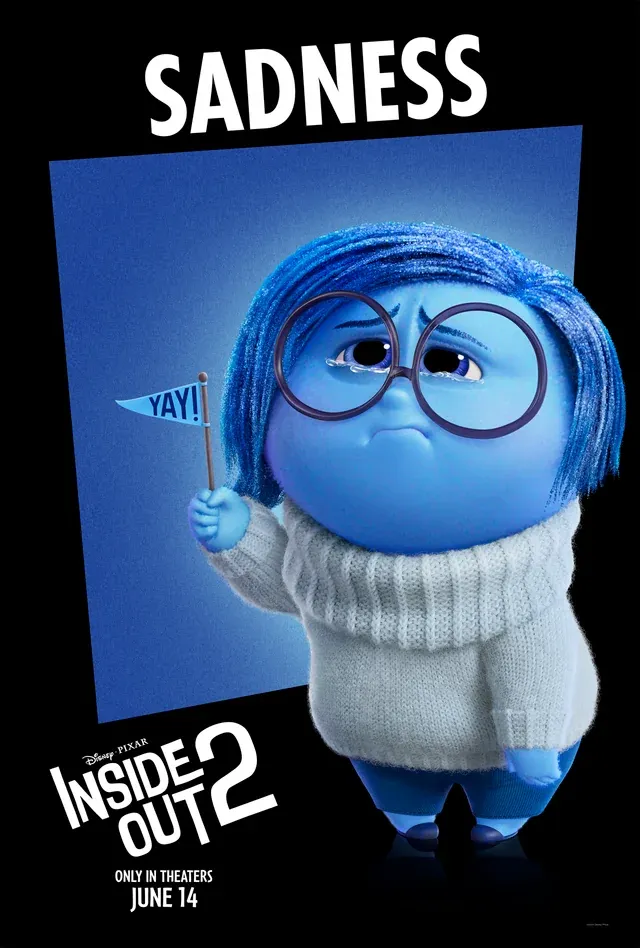
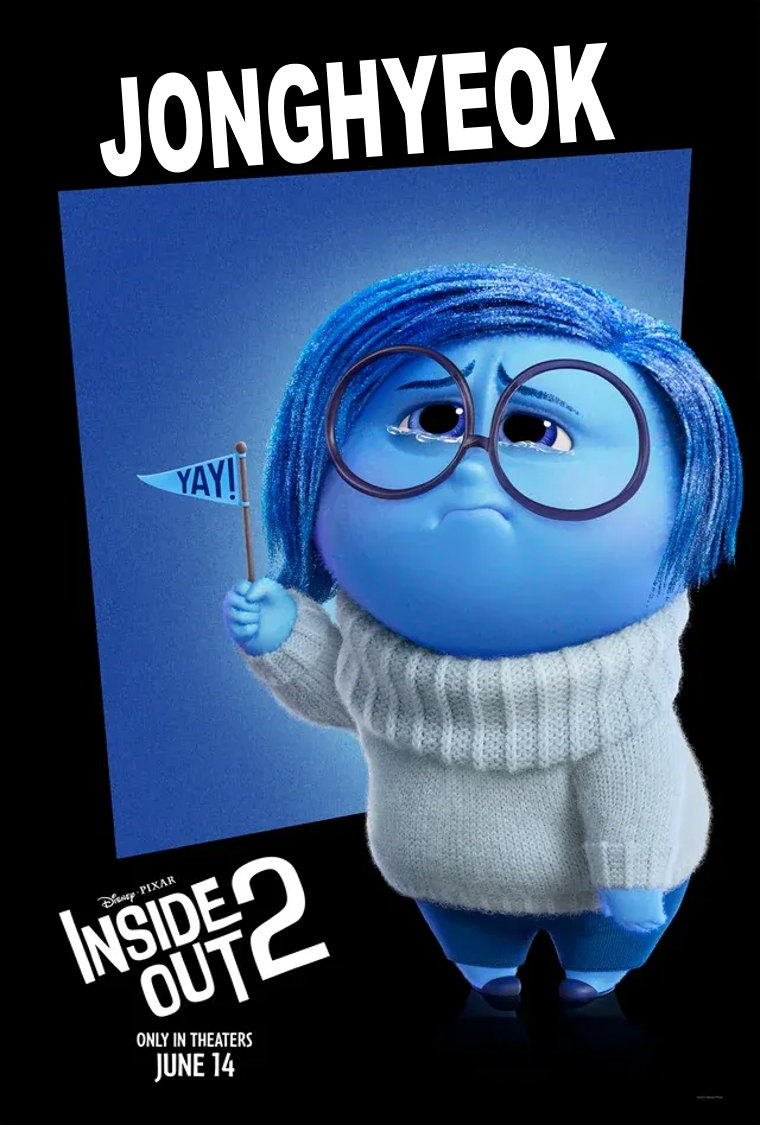
메인페이지 조 이름,소개 / 팀목표/ 약속 추가, 종혁 개인페이지 내용 추가

Changed region(s): [[0.125, 0.0306, 0.8125, 0.153], [0.0938, 0.7648, 0.3125, 0.8871], [0.1875, 0.9177, 0.3438, 0.9483]]

diff --git a/main/index.html b/main/index.html
@@ -71,14 +71,17 @@
 
       /* 팀원 카드 */
       .mycards {
-        margin: 40px auto 20px auto;
-        width: 2400px;
+        margin: 40px auto 40px auto;
+        /* width: 2400px; */
+        width: 2000px;
         height: 500px;
       }
 
       .mycards img {
-        width: 440px;
-        height: 440px;
+        /* width: 440px;
+        height: 440px; */
+        width: 360px;
+        height: 360px;
         object-fit: fill;
       }
 
@@ -116,20 +119,31 @@
     <div class="project">
       <!-- 프로젝트 명, 프로젝트 소개 -->
       <div class="project_1">
-        <h4>조 이름</h4>
-        <h5>조 소개</h5>
+        <h4>파이브아이즈</h4>
+        <h5>내향성 5명이 모여 함께 코딩과 협업을 배워나가는 팀입니다!</h5>
       </div>
 
       <!-- 팀 목표 -->
       <div class="project_2">
         <h4>팀 목표</h4>
-        <h5>우리 팀만의 특징과 추구하는 궁극적인 목표</h5>
+        <h5>저희 포아이즈팀은 개인의 성장과 팀의 성장을 동시에 추구합니다!!</h5>
+        <h5>
+          긍정적인 언어와 태도로 함께 지속적으로 학습하고 개선하며, 새로운
+          지식을 팀 프로젝트에 적용합니다.
+        </h5>
+        <h5>
+          이를 통해 팀 전체의 역량을 향상시키고 더 나은 결과물을 만들기위해
+          노력하여 개인과 팀이 함께 성공할 수 있는 목표를 가집니다.
+        </h5>
       </div>
 
       <!-- 팀 약속 및 규칙 -->
       <div class="project_3">
-        <h4>팀 약속</h4>
-        <h5>우리 팀만의 약속과 규칙</h5>
+        <h4>팀 약속 & 규칙</h4>
+        <h5>자주 소통하고 적극적으로 의견을 냅니다</h5>
+        <h5>팀원 각자의 장점을 파악하고 적극적으로 도움을 요청합니다</h5>
+        <h5>어려운 문제는 다같이 의견을 나누어 가며 해결합니다</h5>
+        <h5>서로에게 동기부여가 될 수 있도록 긍정적인 언어를 사용합니다</h5>
       </div>
     </div>
 
@@ -143,7 +157,7 @@
         <div class="col">
           <a href="./gipyueng.html">
             <div class="card h-100">
-              <img src="../imgs/anger.png" class="card-img-top" alt="..." />
+              <img src="../imgs/joy.png" class="card-img-top" alt="..." />
               <div class="card-body">
                 <h5 class="card-title">
                   <span style="color: #af2610; font-weight: 700">I</span>NFP
@@ -157,7 +171,7 @@
         <div class="col">
           <a href="./bom.html">
             <div class="card h-100">
-              <img src="../imgs/boaring.png" class="card-img-top" alt="..." />
+              <img src="../imgs/ennui.png" class="card-img-top" alt="..." />
               <div class="card-body">
                 <h5 class="card-title">
                   <span style="color: #655dc6; font-weight: 700">I</span>NFJ
@@ -171,7 +185,7 @@
         <div class="col">
           <a href="./taeju.html">
             <div class="card h-100">
-              <img src="../imgs/anxiety.jpg" class="card-img-top" alt="..." />
+              <img src="../imgs/anxiety.png" class="card-img-top" alt="..." />
               <div class="card-body">
                 <h5 class="card-title">
                   <span style="color: #d75d2a; font-weight: 700">I</span>NTP
@@ -186,7 +200,7 @@
           <a href="./yujin.html">
             <div class="card h-100">
               <img
-                src="../imgs/embarassment.png"
+                src="../imgs/embarrassment.png"
                 class="card-img-top"
                 alt="..."
               />
@@ -203,10 +217,10 @@
         <div class="col">
           <a href="./JH.html">
             <div class="card h-100">
-              <img src="../imgs/fear.png" class="card-img-top" alt="..." />
+              <img src="../imgs/sadness.png" class="card-img-top" alt="..." />
               <div class="card-body">
                 <h5 class="card-title">
-                  <span style="color: #7e4aa9; font-weight: 700">I</span>SFP
+                  <span style="color: #a6c0de; font-weight: 700">I</span>NFJ
                 </h5>
               </div>
             </div>

diff --git a/main/JH.html b/main/JH.html
@@ -42,8 +42,8 @@
         background: linear-gradient(
           174deg,
           #ffffff 33.33%,
-          #ea9bc9 33.33%,
-          #ea9bc9 66.66%,
+          #a6c0de 33.33%,
+          #a6c0de 66.66%,
           #ffffff 66.66%
         );
       }
@@ -116,7 +116,12 @@
       }
 
       .sidebar .info a {
-        color: #c0d5af;
+        color: #000;
+        text-decoration: none;
+      }
+
+      .sidebar .info a:hover {
+        color: #a6c0de;
         text-decoration: none;
       }
 
@@ -170,18 +175,48 @@
           alt="Placeholder Image"
         />
         <div class="info">
-          <p>이름 : OOO</p>
-          <p>MBTI</p>
-          <p>취미</p>
-          <p>블로그 : <a href="#">블로그 링크</a></p>
+          <p>이름 : 위종혁</p>
+          <p>MBTI : INFJ</p>
+          <p>취미 : 게임, 운동</p>
+          <p>
+            블로그 : <a href="https://jonghyeok-1.tistory.com/">블로그 링크</a>
+          </p>
         </div>
       </div>
       <!-- Content sections -->
       <div class="content">
         <div class="box">
-          <div class="inner-box">자기소개</div>
-          <div class="inner-box">객관적으로 살펴본 자신의 장점</div>
-          <div class="inner-box">자신의 협업 스타일</div>
+          <div class="inner-box">
+            <h5 style="padding-bottom: 11px">자기소개</h5>
+            <p>
+              안녕하세요. 내일배움캠프를 통해 성실하고 발전하는 개발자가
+              되고싶은 위종혁입니다.
+            </p>
+            <p>저는 평소에 게임하고 운동을 하는 것을 즐깁니다.</p>
+            <p>
+              성격은 처음에는 낯을 많이 가리지만 가까워질수록 정이 많은
+              성격입니다.
+            </p>
+          </div>
+          <div class="inner-box">
+            <h5 style="padding-bottom: 11px">객관적으로 살펴본 자신의 장점</h5>
+            <p>
+              저의 장점은 평소 원만한 성격을 가지고 이어서 친구들 간의 다툼이
+              있으면
+            </p>
+            <p>
+              항상 중간에서 조율을 잘 해주는 편이며 남에게 패해 주는 것을
+              싫어해서
+            </p>
+            <p>맡은 바 책임감은 강한 편입니다.</p>
+          </div>
+          <div class="inner-box">
+            <h5 style="padding-bottom: 11px">자신의 협업 스타일</h5>
+            <p>
+              협업 할 때는 사소한 것이라도 팀원 모두의 의견을 존중하고 따르는
+              편입니다.
+            </p>
+          </div>
         </div>
       </div>
     </div>
